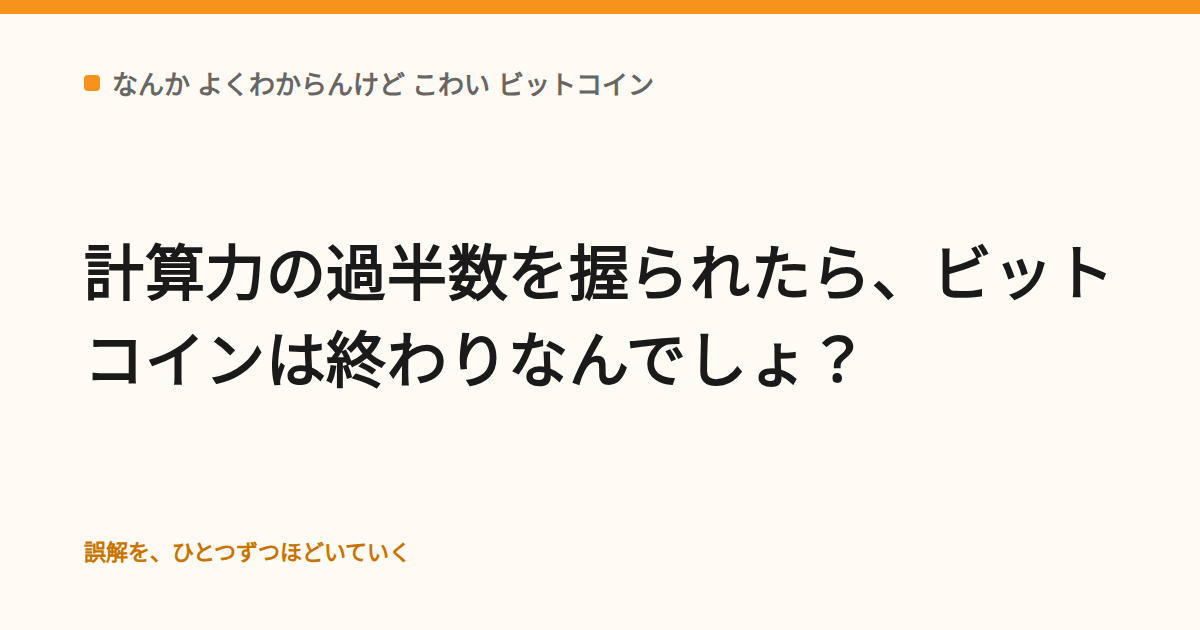
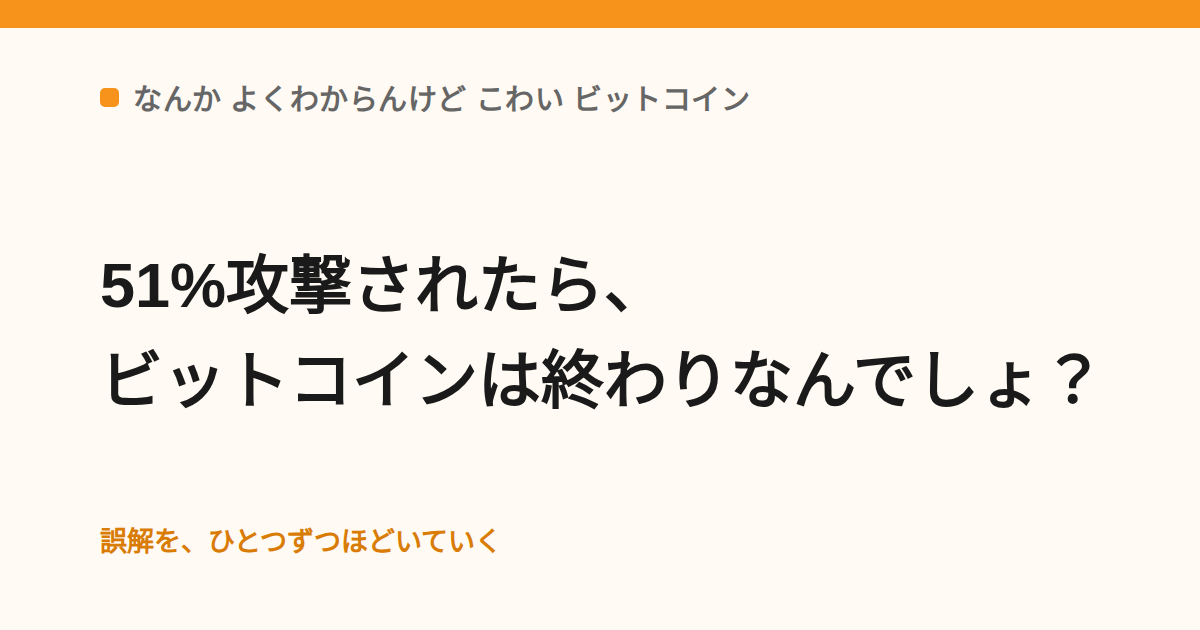
51%の見出しに「51%攻撃」という単語を入れる

diff --git a/51/index.html b/51/index.html
@@ -3,16 +3,16 @@
 <head>
 <meta charset="utf-8">
 <meta name="viewport" content="width=device-width, initial-scale=1">
-<title>計算力の過半数を握られたら、ビットコインは終わりなんでしょ？：なんか よくわからんけど こわい ビットコイン</title>
+<title>51%攻撃されたら、ビットコインは終わりなんでしょ？：なんか よくわからんけど こわい ビットコイン</title>
 <meta name="description" content="過半数を握っても、できることは限られている。しかもコストが膨大で、やる意味がほとんどない">
 <meta property="og:type" content="article">
 <meta property="og:site_name" content="なんか よくわからんけど こわい ビットコイン">
-<meta property="og:title" content="計算力の過半数を握られたら、ビットコインは終わりなんでしょ？">
+<meta property="og:title" content="51%攻撃されたら、ビットコインは終わりなんでしょ？">
 <meta property="og:description" content="過半数を握っても、できることは限られている。しかもコストが膨大で、やる意味がほとんどない">
 <meta property="og:url" content="https://lokuyow.github.io/nanka-kowai-bitcoin/51/">
 <meta property="og:image" content="https://lokuyow.github.io/nanka-kowai-bitcoin/51/ogp.png">
 <meta name="twitter:card" content="summary_large_image">
-<meta name="twitter:title" content="計算力の過半数を握られたら、ビットコインは終わりなんでしょ？">
+<meta name="twitter:title" content="51%攻撃されたら、ビットコインは終わりなんでしょ？">
 <meta name="twitter:description" content="過半数を握っても、できることは限られている。しかもコストが膨大で、やる意味がほとんどない">
 <style>
   :root{
@@ -96,7 +96,7 @@
 <div class="wrap">
 <header><span><a href="../"><b>なんか よくわからんけど<br>こわい ビットコイン</b></a></span><span>11 / 16</span></header>
 <p class="eyebrow"><span>第3層</span>ちょっと詳しいよ</p>
-<h1>計算力の過半数を握られたら、<br>ビットコインは終わりなんでしょ？</h1>
+<h1>51%攻撃されたら、<br>ビットコインは終わりなんでしょ？</h1>
 <div class="answer">過半数を握っても、できることは限られている。<br>しかもコストが膨大で、やる意味がほとんどない</div>
 
   <section>
@@ -184,7 +184,7 @@
 </script>
 <script>
 (function(){
-  var data = {title: '計算力の過半数を握られたら、ビットコインは終わりなんでしょ？', text: '過半数を握っても、できることは限られている。しかもコストが膨大で、やる意味がほとんどない', url: 'https://lokuyow.github.io/nanka-kowai-bitcoin/51/'};
+  var data = {title: '51%攻撃されたら、ビットコインは終わりなんでしょ？', text: '過半数を握っても、できることは限られている。しかもコストが膨大で、やる意味がほとんどない', url: 'https://lokuyow.github.io/nanka-kowai-bitcoin/51/'};
   var main = document.querySelector('.share-main');
   var alt = document.querySelector('.share-alt');
   var note = document.querySelector('.share-note');

diff --git a/index.html b/index.html
@@ -130,7 +130,7 @@
 <p class="layerhead"><span>第3層</span>ちょっと詳しいよ</p>
 <p class="layerdesc">仕組みを半分知っている人の思い込み</p>
 <a class="unit" href="quantum/"><span class="n">10</span><span><span class="q">量子コンピューターができたら、ビットコインは終わりでしょ？</span><br><span class="a">脅威はずっと先。備える時間がある</span></span><span class="arr">→</span></a>
-<a class="unit" href="51/"><span class="n">11</span><span><span class="q">計算力の過半数を握られたら、ビットコインは終わりなんでしょ？</span><br><span class="a">できることは限られ、やる意味もない</span></span><span class="arr">→</span></a>
+<a class="unit" href="51/"><span class="n">11</span><span><span class="q">51%攻撃されたら、ビットコインは終わりなんでしょ？</span><br><span class="a">できることは限られ、やる意味もない</span></span><span class="arr">→</span></a>
 <a class="unit" href="ai/"><span class="n">12</span><span><span class="q">AIに全部持っていかれたら、ビットコインは掘れなくなるんじゃないの？</span><br><span class="a">道具が違う。難易度の自己調整もある</span></span><span class="arr">→</span></a>
 <a class="unit" href="reward/"><span class="n">13</span><span><span class="q">報酬がなくなったら、ビットコインは終わるんでしょ？</span><br><span class="a">収入は報酬と手数料の2本立て</span></span><span class="arr">→</span></a>
 <a class="unit" href="limit/"><span class="n">14</span><span><span class="q">発行上限って、その気になれば変えられるんでしょ？</span><br><span class="a">変えても誰もついてこない</span></span><span class="arr">→</span></a>
